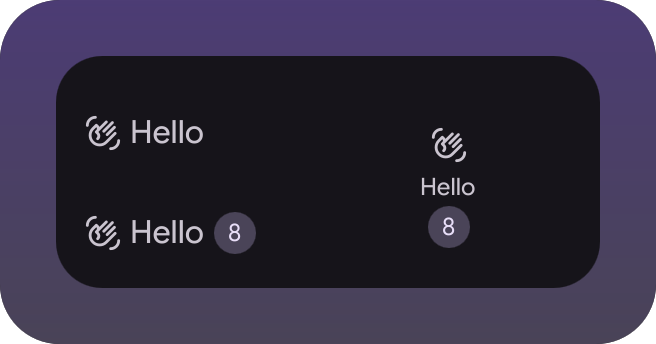
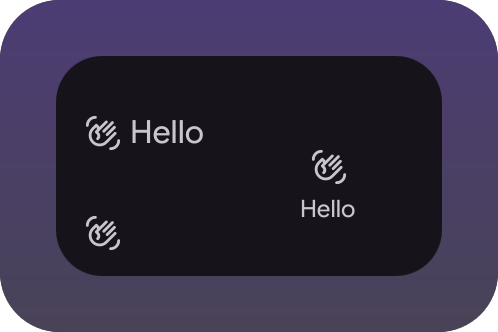
Indicator: drop the badge, the switch turns the greeting off instead

diff --git a/demo/DemoHello.qml b/demo/DemoHello.qml
@@ -1,4 +1,4 @@
-//@ probe hello -g 260x140
+//@ probe hello -g 165x82
 import ".." // The widget's own types and its HelloState singleton, via its qmldir
 import QtQuick.Layouts
 
@@ -14,20 +14,28 @@ RowLayout {
         spacing: 0
 
         HelloIndicator {
-            id: plain
-            badge: false
+            id: greeted
+            showGreeting: true
         }
 
         HelloIndicator {
-            id: badged
-            badge: true
+            id: quiet
+            showGreeting: false
         }
     }
 
     // What the vertical bar loads: the same file, with `vertical` set on it
     HelloIndicator {
         id: upright
-        badge: true
+        showGreeting: true
+        vertical: true
+    }
+
+    // Not in the picture, only in the check below
+    HelloIndicator {
+        id: uprightQuiet
+        visible: false
+        showGreeting: false
         vertical: true
     }
 
@@ -35,22 +43,23 @@ RowLayout {
         return [
             {
                 "name": "the singleton resolves through qmldir",
-                "got": plain.greeting,
+                "got": greeted.greeting,
                 "want": "Hello"
             },
             {
-                "name": "the badge takes room in the bar",
-                "got": badged.implicitWidth > plain.implicitWidth,
+                "name": "the greeting takes room in the bar",
+                "got": greeted.implicitWidth > quiet.implicitWidth,
                 "want": true
             },
             {
-                "name": "the vertical one stacks instead of stretching",
-                "got": upright.implicitHeight > upright.implicitWidth,
+                // Horizontally the greeting buys width, vertically it buys height
+                "name": "the vertical one stacks the greeting under the icon",
+                "got": upright.implicitHeight > uprightQuiet.implicitHeight,
                 "want": true
             },
             {
                 "name": "the vertical one keeps to the bar width",
-                "got": upright.implicitWidth < badged.implicitWidth,
+                "got": upright.implicitWidth < greeted.implicitWidth,
                 "want": true
             }
         ];

diff --git a/HelloIndicator.qml b/HelloIndicator.qml
@@ -4,13 +4,13 @@ import qs.modules.widgets
 import QtQuick
 import QtQuick.Layouts
 
-/** Bar indicator: both orientations, a popup on hover, sibling type, own singleton. */
+/** Bar indicator: both orientations, a popup on hover, own singleton, two options. */
 MouseArea {
     id: root
 
     // Options default from the catalog but stay writable, so a demo scene can
     // draw every state without touching the store
-    property bool badge: WidgetCatalog.option("hello", "badge") ?? false
+    property bool showGreeting: WidgetCatalog.option("hello", "showGreeting") ?? false
     // Set by the vertical bar on load, so one file covers both orientations
     property bool vertical: false
     readonly property string greeting: HelloState.greeting
@@ -39,15 +39,11 @@ MouseArea {
             Layout.alignment: Qt.AlignHCenter
             // 46px of bar leaves no room for a word, so it elides and drops a step
             Layout.maximumWidth: root.vertical ? root.barThickness - 8 : -1
+            visible: root.showGreeting
             elide: Text.ElideRight
             text: root.greeting
             font.pixelSize: root.vertical ? Appearance.font.pixelSize.smaller : Appearance.font.pixelSize.normal
             color: Appearance.colors.colOnLayer1
-        }
-
-        HelloBadge {
-            Layout.alignment: Qt.AlignHCenter
-            visible: root.badge
         }
     }
 

diff --git a/Manifest.qml b/Manifest.qml
@@ -7,7 +7,7 @@ WidgetManifest {
     name: Translation.tr("Hello")
     description: Translation.tr("Template widget: copy this repo to start your own")
     icon: "waving_hand"
-    version: "1.2"
+    version: "1.3"
     author: "Berupor"
     minShellVersion: "1.2" // Orientations on a bar slot, so not below 1.2
     dependencies: ["uptime"] // Greyed out in the catalog until they are all there
@@ -17,10 +17,10 @@ WidgetManifest {
     })
     options: [
         {
-            "key": "badge",
+            "key": "showGreeting",
             "type": "switch",
-            "icon": "counter_1",
-            "label": Translation.tr("Show the badge"),
+            "icon": "waving_hand",
+            "label": Translation.tr("Greet from the bar, not just the popup"),
             "default": true
         },
         {

diff --git a/README.md b/README.md
@@ -3,8 +3,8 @@
 The smallest widget for the [illogical-impulse extensions
 fork](https://github.com/Berupor/dots-hyprland-extensions) that is still a real
 one: an indicator that draws in both bars, a popup on hover, an option apiece for
-the looks and the polling, a sibling type and a singleton that runs `uptime` for
-the line the popup shows. Copy this repo to start your own.
+the looks and the polling, and a singleton that runs `uptime` for the line the
+popup shows. Copy this repo to start your own.
 
 | In the bar | In the vertical bar | Every state | The popup |
 |---|---|---|---|
@@ -20,8 +20,7 @@ start, so no file of the shell needs editing.
 |---|---|
 | `Manifest.qml` | id, name, icon, versions, slots, options |
 | `HelloIndicator.qml` | the view a slot points at |
-| `HelloBadge.qml` | a sibling type, resolves with no import at all |
-| `HelloPopup.qml` + `HelloDetails.qml` | the popup: frame and body, split because a window cannot be grabbed |
+| `HelloPopup.qml` + `HelloDetails.qml` | the popup: frame and body, split because a window cannot be grabbed. Sibling types, so the indicator reaches them with no import at all |
 | `HelloState.qml` + `qmldir` | a singleton, which needs its `qmldir` line or its properties silently read as empty |
 | `demo/` | scenes: the tests and the pictures, never loaded by the shell |
 | `shots.txt` | what `widget-shots.sh` photographs for the README |
@@ -69,7 +68,7 @@ tests/widget-shots.sh -x ~/.config/illogical-impulse/widgets/hello
 ```
 
 The vertical bar is the same probe with the property set and its own host:
-`-p vertical=true -H vbar -g 46x110`.
+`-p vertical=true -H vbar -g 46x38`.
 
 `git config core.hooksPath .githooks` runs the cases and redraws the shots on
 push, so the README never shows a widget you no longer have.
